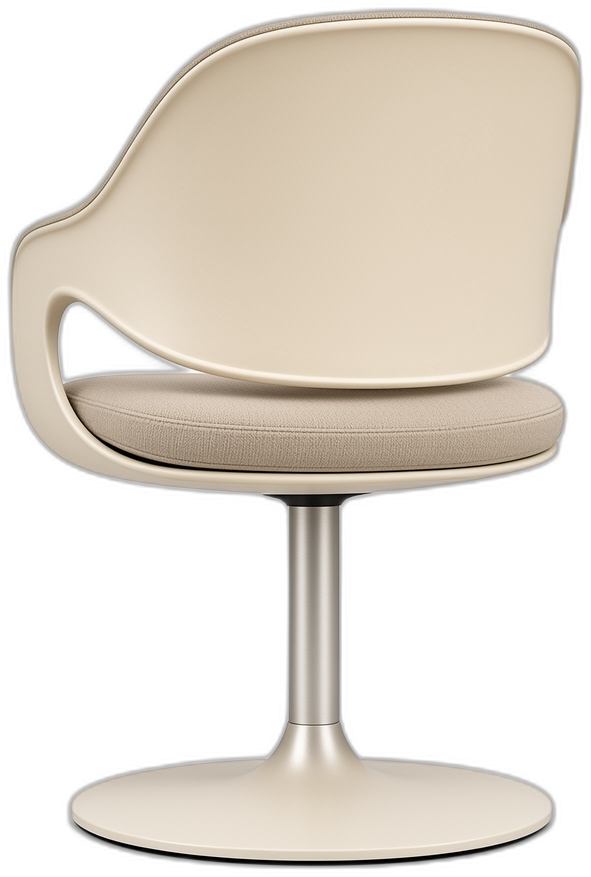
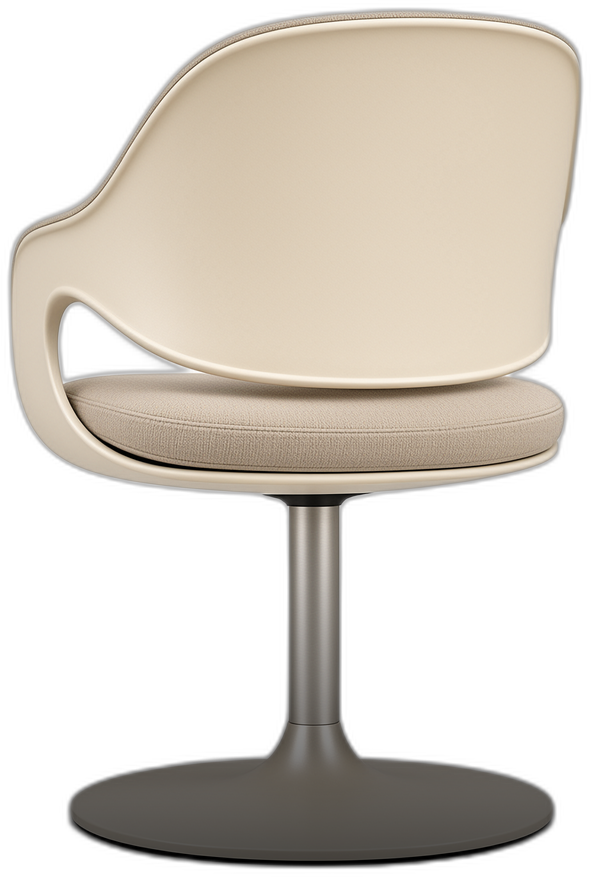
[探测:floor 空椅落地+地板沉色——座底压暗+接触影+地板藏蓝]
业主察×2:椅件浅座底撞亮地板被洗没读作悬空;且地板整体比原图亮。
- 椅件座面以下渐压至~30%亮度,座下补径向接触影(原图每席皆有地影)
- room-shell 地板区(y540↓)渐压至38%亮度+红多压一档沉向藏蓝

坑处置:无坑

Changed region(s): [[0.1218, 0.6465, 0.9442, 1.0]]

diff --git a/web/src/react/styles/31-floor.css b/web/src/react/styles/31-floor.css
@@ -353,6 +353,9 @@ button.fs-ven:hover, button.fs-probe:hover, button.fs-queue:hover { background: 
 
 /* 贴图层——坐姿机=器官座,站姿机=常驻机;态=滤镜不调图 */
 .fs-seatwrap { position: absolute; transform: translate(-50%, -92%); z-index: 3; width: 8.6%; text-align: center; }
+/* 落地接触影——原图每席椅/机下都有地板影,缺了就读作悬空 */
+.fs-seatwrap::before { content: ""; position: absolute; left: 6%; right: 6%; bottom: 12%; height: 9%; z-index: -1;
+  border-radius: 50%; background: radial-gradient(ellipse, rgba(4,14,30,.55) 0%, transparent 70%); }
 .fs-bot { width: 100%; display: block; filter: drop-shadow(0 6px 10px rgba(0,0,0,.5)); pointer-events: none; }
 .fs-bot.flip { transform: scaleX(-1); }
 .fs-seatwrap.st-build .fs-bot { filter: sepia(.45) saturate(1.7) hue-rotate(-18deg) drop-shadow(0 6px 10px rgba(0,0,0,.5)); }
